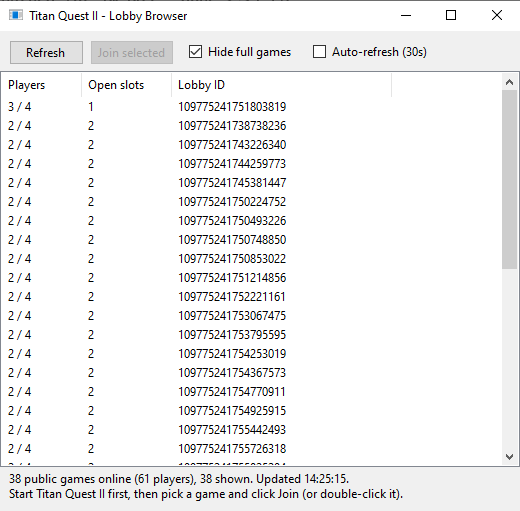
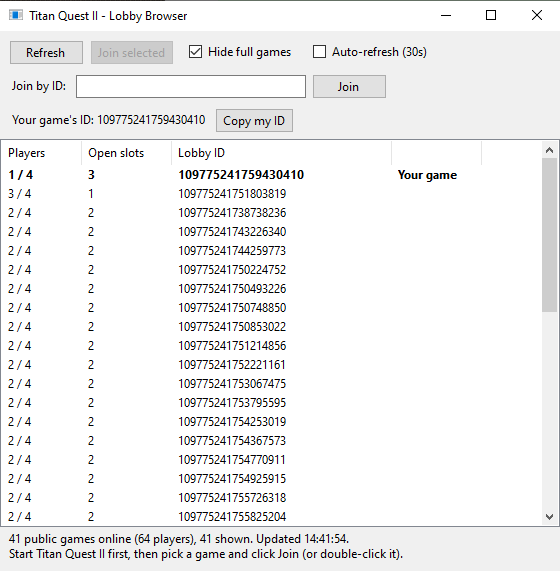
Add Join by ID and show the player's own lobby ID
Hosts can copy their lobby ID and share it so others can join without
being Steam friends. Own game is listed first and marked.

diff --git a/TQ2LobbyBrowser.cs b/TQ2LobbyBrowser.cs
@@ -25,6 +25,13 @@ static class Steam
     [DllImport(Dll)] public static extern void SteamAPI_RunCallbacks();
     [DllImport(Dll)] public static extern IntPtr SteamAPI_SteamMatchmaking_v009();
     [DllImport(Dll)] public static extern IntPtr SteamAPI_SteamUtils_v010();
+    [DllImport(Dll)] public static extern IntPtr SteamAPI_SteamUser_v023();
+    [DllImport(Dll)] public static extern IntPtr SteamAPI_SteamFriends_v017();
+    [DllImport(Dll)] public static extern ulong SteamAPI_ISteamUser_GetSteamID(IntPtr self);
+
+    [DllImport(Dll)]
+    [return: MarshalAs(UnmanagedType.I1)]
+    public static extern bool SteamAPI_ISteamFriends_GetFriendGamePlayed(IntPtr self, ulong steamId, out FriendGameInfo info);
     [DllImport(Dll)] public static extern void SteamAPI_ISteamMatchmaking_AddRequestLobbyListDistanceFilter(IntPtr self, int filter);
     [DllImport(Dll)] public static extern void SteamAPI_ISteamMatchmaking_AddRequestLobbyListResultCountFilter(IntPtr self, int max);
     [DllImport(Dll)] public static extern ulong SteamAPI_ISteamMatchmaking_RequestLobbyList(IntPtr self);
@@ -39,6 +46,16 @@ static class Steam
     [DllImport(Dll)]
     [return: MarshalAs(UnmanagedType.I1)]
     public static extern bool SteamAPI_ISteamUtils_GetAPICallResult(IntPtr self, ulong call, ref uint result, int size, int callbackId, [MarshalAs(UnmanagedType.I1)] out bool failed);
+
+    [StructLayout(LayoutKind.Sequential)]
+    public struct FriendGameInfo
+    {
+        public ulong GameId;
+        public uint GameIp;
+        public ushort GamePort;
+        public ushort QueryPort;
+        public ulong LobbyId;
+    }
 
     public const int LobbyMatchListCallback = 510;
     public const int DistanceWorldwide = 3;
@@ -61,6 +78,11 @@ class MainForm : Form
     readonly CheckBox hideFull = new CheckBox();
     readonly CheckBox autoRefresh = new CheckBox();
     readonly Label status = new Label();
+    readonly TextBox joinIdBox = new TextBox();
+    readonly Button joinIdButton = new Button();
+    readonly Label myGameLabel = new Label();
+    readonly Button copyMyIdButton = new Button();
+    readonly ContextMenuStrip listMenu = new ContextMenuStrip();
     readonly Timer pollTimer = new Timer();
     readonly Timer autoTimer = new Timer();
 
@@ -69,11 +91,12 @@ class MainForm : Form
     DateTime pendingDeadline;
     bool steamUp;
     List<Lobby> lobbies = new List<Lobby>();
+    ulong myLobby;
 
     public MainForm()
     {
         Text = "Titan Quest II - Lobby Browser";
-        ClientSize = new Size(520, 480);
+        ClientSize = new Size(560, 540);
         MinimumSize = new Size(420, 300);
         Font = new Font("Segoe UI", 9f);
         try { Icon = Icon.ExtractAssociatedIcon(Application.ExecutablePath); } catch { }
@@ -97,7 +120,31 @@ class MainForm : Form
         autoRefresh.CheckedChanged += delegate { autoTimer.Enabled = autoRefresh.Checked; };
         top.Controls.AddRange(new Control[] { refreshButton, joinButton, hideFull, autoRefresh });
 
+        var joinRow = new FlowLayoutPanel { Dock = DockStyle.Top, Height = 34, Padding = new Padding(6, 0, 6, 0), WrapContents = false };
+        var joinLabel = new Label { Text = "Join by ID:", AutoSize = true, Margin = new Padding(3, 7, 3, 3) };
+        joinIdBox.Width = 230;
+        joinIdBox.Margin = new Padding(3, 4, 3, 3);
+        joinIdBox.KeyDown += (s, e) => { if (e.KeyCode == Keys.Enter) { e.SuppressKeyPress = true; JoinById(); } };
+        joinIdButton.Text = "Join";
+        joinIdButton.AutoSize = true;
+        joinIdButton.Click += delegate { JoinById(); };
+        joinRow.Controls.AddRange(new Control[] { joinLabel, joinIdBox, joinIdButton });
+
+        var myRow = new FlowLayoutPanel { Dock = DockStyle.Top, Height = 34, Padding = new Padding(6, 0, 6, 0), WrapContents = false };
+        myGameLabel.AutoSize = true;
+        myGameLabel.Margin = new Padding(3, 7, 3, 3);
+        copyMyIdButton.Text = "Copy my ID";
+        copyMyIdButton.AutoSize = true;
+        copyMyIdButton.Click += delegate { CopyId(myLobby); };
+        myRow.Controls.AddRange(new Control[] { myGameLabel, copyMyIdButton });
+        UpdateMyGame();
+
+        listMenu.Items.Add("Copy lobby ID", null, delegate { if (list.SelectedItems.Count > 0) CopyId((ulong)list.SelectedItems[0].Tag); });
+        listMenu.Items.Add("Join", null, delegate { JoinSelected(); });
+
         list.Dock = DockStyle.Fill;
+        list.ContextMenuStrip = listMenu;
+        list.KeyDown += (s, e) => { if (e.Control && e.KeyCode == Keys.C && list.SelectedItems.Count > 0) CopyId((ulong)list.SelectedItems[0].Tag); };
         list.View = View.Details;
         list.FullRowSelect = true;
         list.MultiSelect = false;
@@ -105,6 +152,7 @@ class MainForm : Form
         list.Columns.Add("Players", 80);
         list.Columns.Add("Open slots", 90);
         list.Columns.Add("Lobby ID", 220);
+        list.Columns.Add("", 90);
         list.SelectedIndexChanged += delegate { joinButton.Enabled = list.SelectedItems.Count > 0; };
         list.DoubleClick += delegate { JoinSelected(); };
 
@@ -114,6 +162,8 @@ class MainForm : Form
         status.Text = "Start Titan Quest II first, then pick a game and click Join (or double-click it).";
 
         Controls.Add(list);
+        Controls.Add(myRow);
+        Controls.Add(joinRow);
         Controls.Add(top);
         Controls.Add(status);
 
@@ -140,6 +190,7 @@ class MainForm : Form
         steamUp = true;
         matchmaking = Steam.SteamAPI_SteamMatchmaking_v009();
         utils = Steam.SteamAPI_SteamUtils_v010();
+        FindMyLobby();
         Steam.SteamAPI_ISteamMatchmaking_AddRequestLobbyListDistanceFilter(matchmaking, Steam.DistanceWorldwide);
         Steam.SteamAPI_ISteamMatchmaking_AddRequestLobbyListResultCountFilter(matchmaking, 500);
         pendingCall = Steam.SteamAPI_ISteamMatchmaking_RequestLobbyList(matchmaking);
@@ -175,9 +226,49 @@ class MainForm : Form
                 Limit = Steam.SteamAPI_ISteamMatchmaking_GetLobbyMemberLimit(matchmaking, id)
             });
         }
-        found.Sort((a, b) => b.Players != a.Players ? b.Players.CompareTo(a.Players) : a.Id.CompareTo(b.Id));
+        // Own game first, then fullest games first.
+        found.Sort((a, b) => (a.Id == myLobby) != (b.Id == myLobby) ? (a.Id == myLobby ? -1 : 1)
+                           : b.Players != a.Players ? b.Players.CompareTo(a.Players) : a.Id.CompareTo(b.Id));
         lobbies = found;
         Finish(null);
+    }
+
+    // Steam knows which lobby the player's running game is in (the same info friends' "Join Game" uses).
+    void FindMyLobby()
+    {
+        myLobby = 0;
+        ulong me = Steam.SteamAPI_ISteamUser_GetSteamID(Steam.SteamAPI_SteamUser_v023());
+        Steam.FriendGameInfo info;
+        if (Steam.SteamAPI_ISteamFriends_GetFriendGamePlayed(Steam.SteamAPI_SteamFriends_v017(), me, out info) &&
+            info.GameId == ulong.Parse(AppId))
+            myLobby = info.LobbyId;
+        UpdateMyGame();
+    }
+
+    void UpdateMyGame()
+    {
+        myGameLabel.Text = myLobby != 0 ? "Your game's ID: " + myLobby : "Your game's ID: (host or join a game, then Refresh)";
+        copyMyIdButton.Enabled = myLobby != 0;
+    }
+
+    void CopyId(ulong id)
+    {
+        if (id == 0) return;
+        try { Clipboard.SetText(id.ToString()); SetStatus("Copied lobby ID " + id + " to the clipboard. Share it so others can use Join by ID."); }
+        catch (Exception ex) { SetStatus("Could not copy to the clipboard: " + ex.Message); }
+    }
+
+    // Accepts a bare lobby ID or a full steam://joinlobby/1154030/<id>/... link.
+    void JoinById()
+    {
+        Match m = Regex.Match(joinIdBox.Text, @"\d{15,20}");
+        ulong id;
+        if (!m.Success || !ulong.TryParse(m.Value, out id))
+        {
+            SetStatus("That doesn't look like a lobby ID. It should be a long number like 109775241759430410.");
+            return;
+        }
+        Join(id);
     }
 
     // Shut Steam down after every search so Steam doesn't treat this tool as the running game.
@@ -201,7 +292,8 @@ class MainForm : Form
             totalPlayers += l.Players;
             int open = Math.Max(0, l.Limit - l.Players);
             if (hideFull.Checked && open == 0) continue;
-            var item = new ListViewItem(new[] { l.Players + " / " + l.Limit, open.ToString(), l.Id.ToString() });
+            var item = new ListViewItem(new[] { l.Players + " / " + l.Limit, open.ToString(), l.Id.ToString(), l.Id == myLobby ? "Your game" : "" });
+            if (l.Id == myLobby) item.Font = new Font(list.Font, FontStyle.Bold);
             item.Tag = l.Id;
             list.Items.Add(item);
             if (l.Id == selected) item.Selected = true;
@@ -216,8 +308,16 @@ class MainForm : Form
     void JoinSelected()
     {
         if (list.SelectedItems.Count == 0) return;
-        ulong id = (ulong)list.SelectedItems[0].Tag;
-        try { Process.Start("steam://joinlobby/" + AppId + "/" + id); }
+        Join((ulong)list.SelectedItems[0].Tag);
+    }
+
+    void Join(ulong id)
+    {
+        try
+        {
+            Process.Start("steam://joinlobby/" + AppId + "/" + id);
+            SetStatus("Asked Steam to join lobby " + id + ". Titan Quest II must already be running.");
+        }
         catch (Exception ex) { SetStatus("Could not open the Steam join link: " + ex.Message); }
     }
 

diff --git a/README.md b/README.md
@@ -27,6 +27,18 @@ You don't need to install anything else. No Python or extra runtime is required,
 | **Refresh** | Searches again for open games worldwide |
 | **Hide full games** | Hides games that have no free slots (on by default) |
 | **Auto-refresh (30s)** | Refreshes the list every 30 seconds |
+| **Join by ID** | Paste a lobby ID (or a `steam://joinlobby/...` link) and click **Join** |
+| **Copy my ID** | Copies the ID of the game you're hosting or playing in |
+| **Right-click / Ctrl+C** | Copies the ID of the selected game in the list |
+
+### Playing with people who aren't on your Steam friends list
+
+You don't need to add anyone as a Steam friend:
+
+1. **Host:** start a multiplayer game set to **Public**, then click **Refresh** in the browser. Your game shows at the top of the list as **Your game**. Click **Copy my ID** and paste the ID into Discord, a forum or a chat.
+2. **Everyone else:** start Titan Quest II, paste the ID into **Join by ID** and click **Join**.
+
+The host's game needs to be **Public**. Steam doesn't let strangers into friends-only or private lobbies, even if they have the ID.
 
 ### "Windows protected your PC"
 
